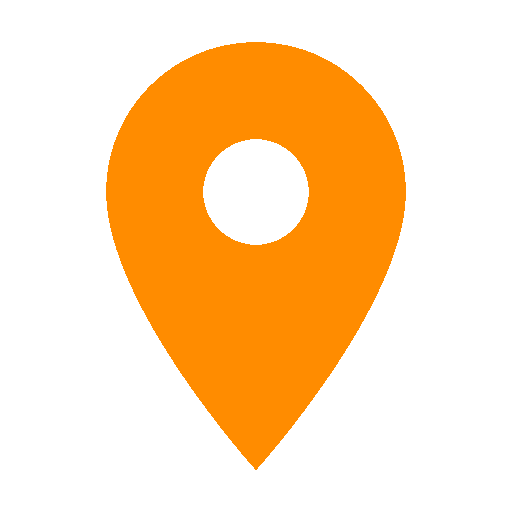
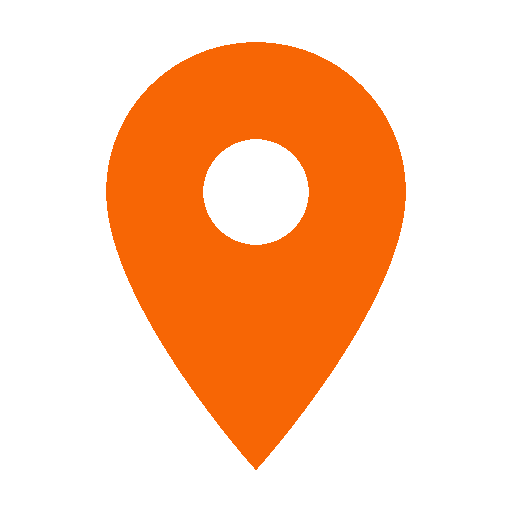
More info on marker

Changed region(s): [[0.1875, 0.0625, 0.8125, 0.9062]]

diff --git a/map.html b/map.html
@@ -218,7 +218,7 @@
       }
 
       // Function to add markers to the temporary array
-      function addMarker(latitude, longitude, title, departmentNumber, newMarkers) {
+      function addMarker(latitude, longitude, title, departmentNumber, timestamp, formattedContent, newMarkers) {
         let markerIcon;
 
         switch (parseInt(departmentNumber)) {
@@ -254,13 +254,23 @@
             break;
         }
 
-        const newMarker = L.marker([latitude, longitude], { department: departmentNumber, icon: markerIcon }).bindPopup(title);
+        const formattedTimestamp = new Date(timestamp).toLocaleString(); // Format timestamp
+
+        const markerContent = `<div>
+          <p>${title}</p>
+          <p>Datum en tijd: ${formattedTimestamp}</p>
+        </div>`;
+
+        const newMarker = L.marker([latitude, longitude], { department: departmentNumber, icon: markerIcon })
+          .bindPopup(markerContent); // Set marker's popup content
+
         if (all) {
           markers.push(newMarker);
         } else {
           newMarkers.push(newMarker);
         }
       }
+
 
       for (let i = 0; i < incidents.length; i++) {
         const incident = incidents[i];
@@ -284,18 +294,9 @@
 
           formattedContent.push(`<div class="incident">
             <p class="title">${title}</p>
-            <p class="description">${description}</p>
-            <p class="coordinates">Latitude: ${latitude}, Longitude: ${longitude}</p>
             <p class="date">Datum en tijd: ${formattedDate}</p>
           </div>`);
-          addMarker(parseFloat(latitude), parseFloat(longitude), title, d, newMarkers);
-        } else {
-          formattedContent.push(`<div class="incident">
-            <p class="title">${title}</p>
-            <p class="description">${description}</p>
-            <p class="coordinates">Coordinates not available</p>
-            <p class="date">Datum en tijd: ${formattedDate}</p>
-          </div>`);
+          addMarker(parseFloat(latitude), parseFloat(longitude), title, d, formattedDate, formattedContent[i], newMarkers);
         }
       }
       // Call updateMarkers to add all new markers to the map

diff --git a/style.css b/style.css
@@ -42,7 +42,7 @@ button {
 }
 
 .boat-btn {
-  background-color: #ff8c00;
+  background-color: #f76605;
 }
 
 .list-btn {
